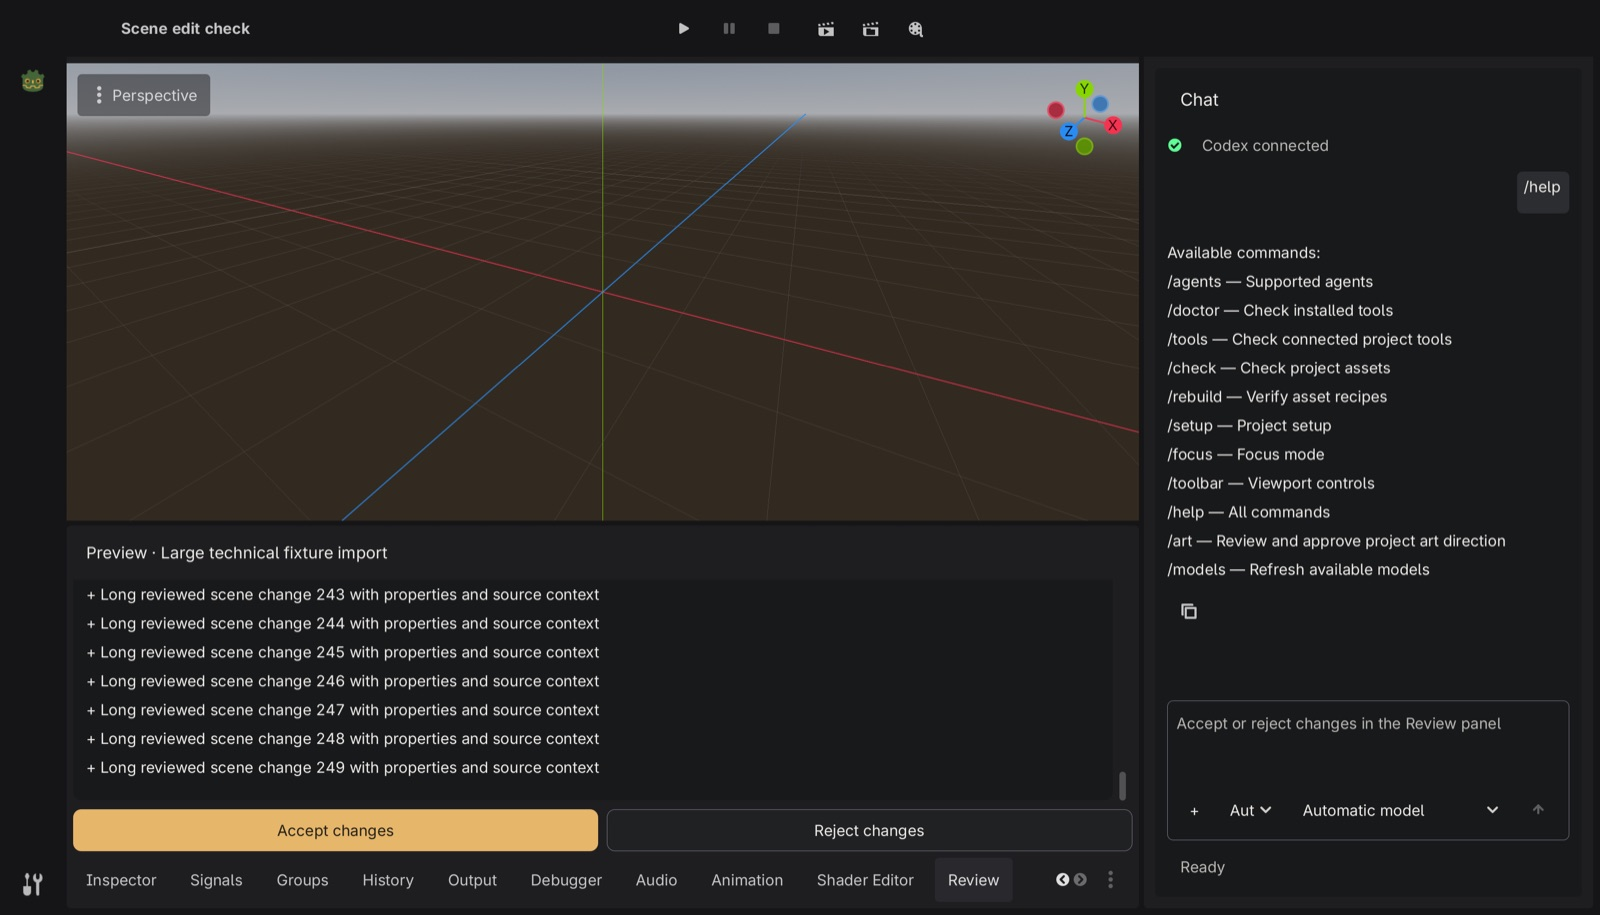
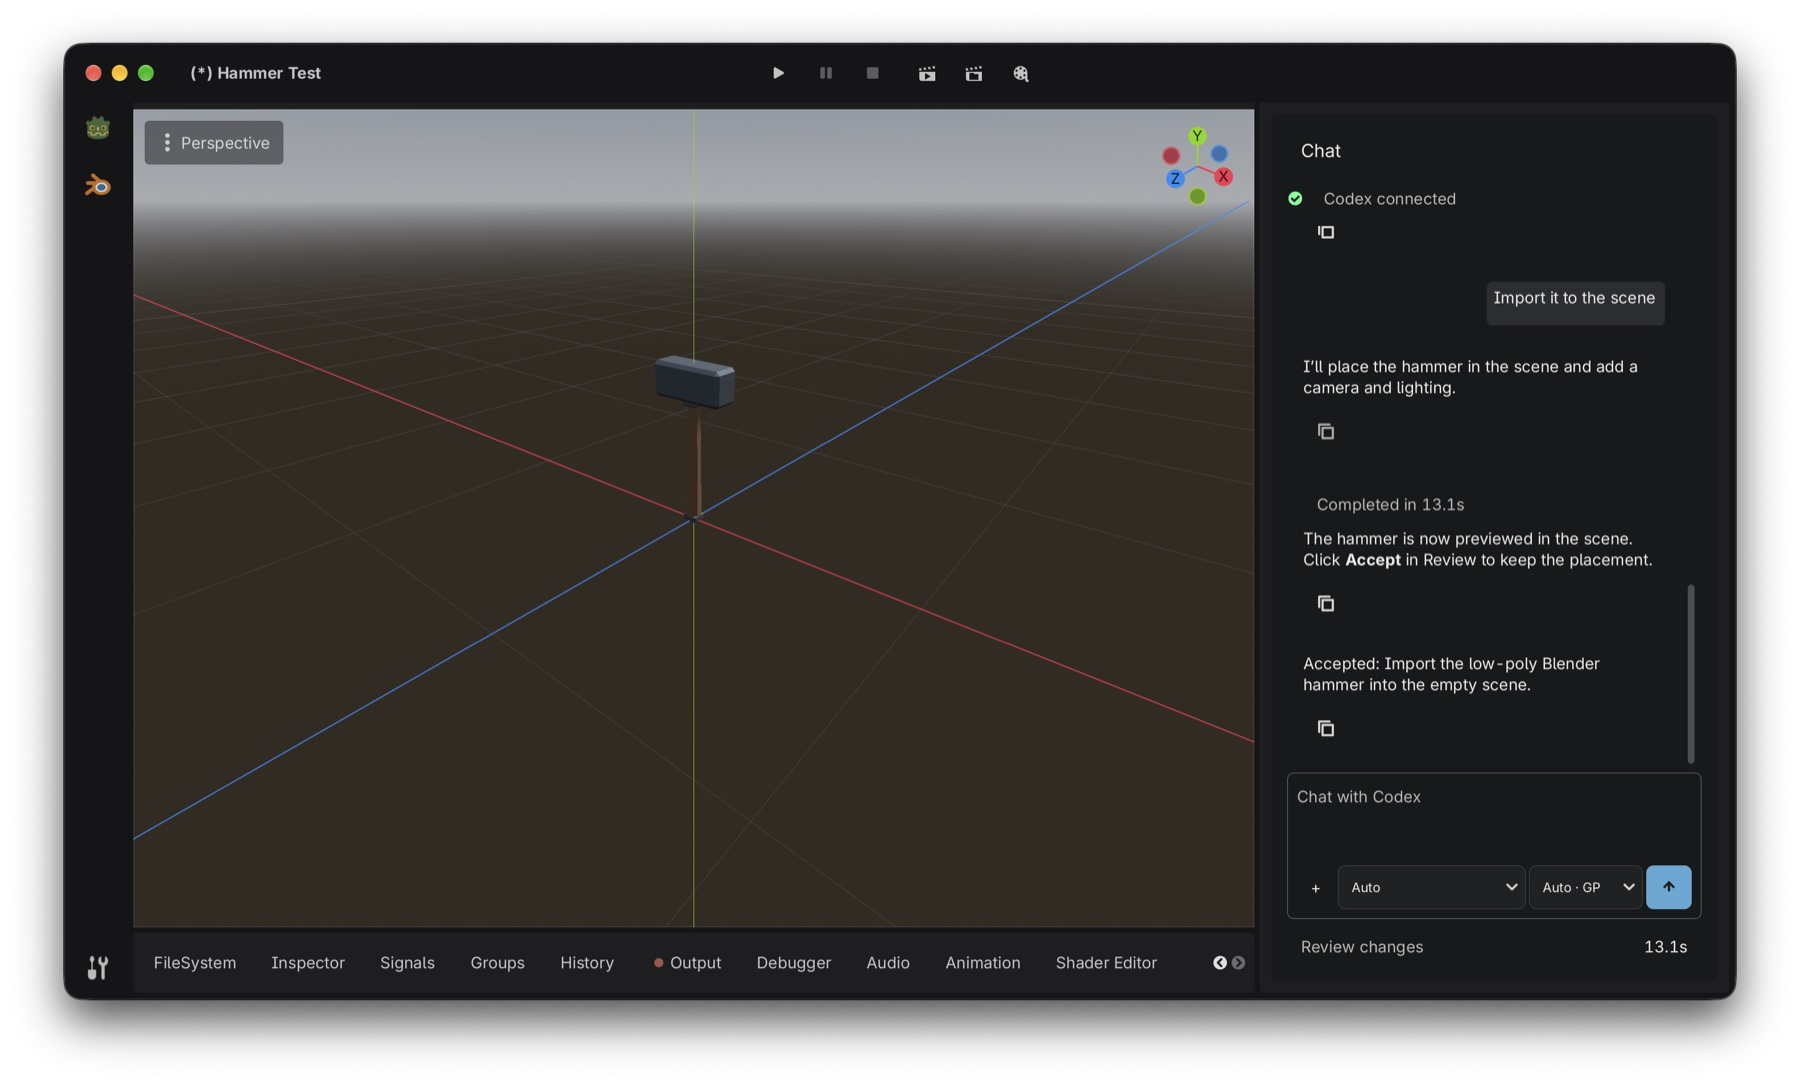
docs: use the hammer test screenshot in the README

diff --git a/README.md b/README.md
@@ -2,7 +2,9 @@
 
 **Made in the Joinery, not generated.**
 
-![The Joinery editor: the 3D viewport, a staged change with Accept and Reject in the Review panel, and the chat sidebar](docs/images/joinery-editor.jpg)
+![The Joinery editor with a low-poly hammer made in Blender placed in the scene, the Godot and Blender icons on the left, and the chat with Codex on the right](docs/images/joinery-editor.jpg)
+
+*A hammer modelled in Blender through chat, reviewed and placed in the scene.*
 
 Joinery is a game editor built on Godot 4.7 that you direct by chatting with it.
 You select something, say what should change, and the AI sidebar, **Journeyman**,
